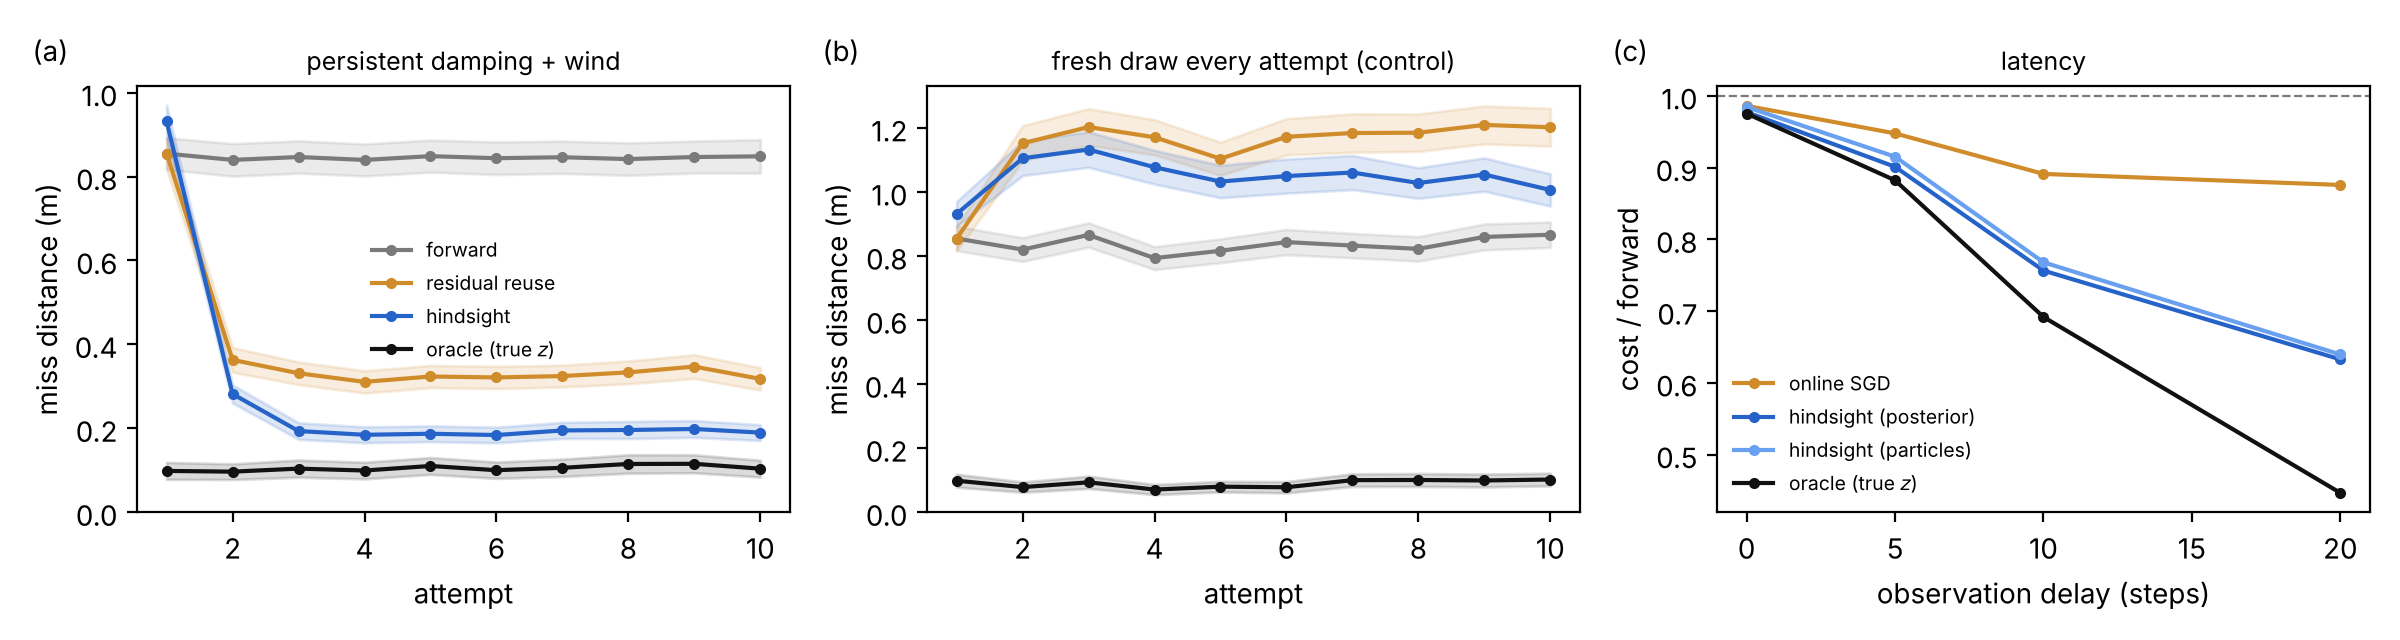
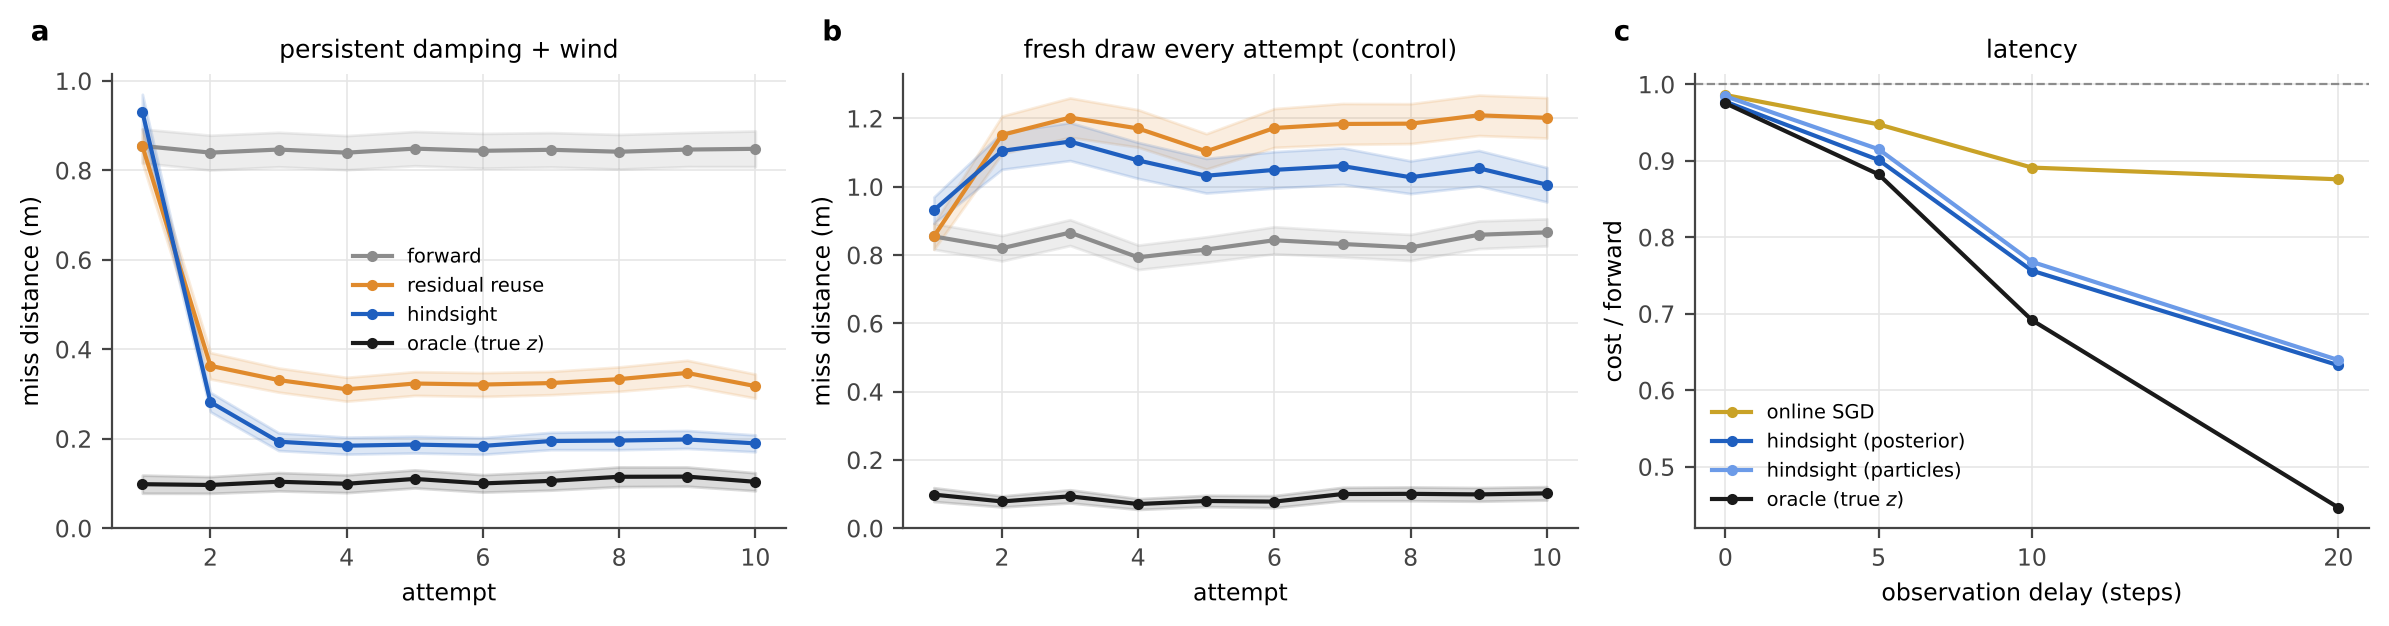
Shared figure style; v7 plotting script; restyled v6 figure
Claude-Session: https://claude.ai/code/session_017cFVViSvQxEhFKVry6NpjJ

diff --git a/scripts/plot_v7.py b/scripts/plot_v7.py
@@ -1,0 +1,110 @@
+"""Figures for the hierarchical-vs-hindsight experiment (E-H), from results/ only."""
+import sys
+from pathlib import Path
+
+import matplotlib.pyplot as plt
+import numpy as np
+from matplotlib.patches import Rectangle
+
+ROOT = Path(__file__).resolve().parents[1]
+sys.path.insert(0, str(ROOT))
+from scripts.figstyle import NAME, PCOL, panel, setup  # noqa: E402
+from wmi import hier  # noqa: E402
+from wmi.harness import load_results  # noqa: E402
+
+setup()
+G = ROOT / "papers" / "latent-hindsight-planning" / "generated"
+rng = np.random.default_rng(0)
+R = sorted(load_results("hier_main"), key=lambda r: r["provenance"]["config"]["seed"])
+hier.TASK["gap"] = R[0]["provenance"]["config"]["gap"]
+RG = R[0]["metrics"]["regimes"]
+cat = lambda key, p, f: np.concatenate([np.array(r["metrics"]["regimes"][key][p][f]) for r in R])
+PL = list(RG["K10/none"].keys())
+
+
+def ci(x, B=5000):
+    i = rng.integers(0, len(x), (B, len(x))); m = x[i].mean(1)
+    return x.mean(), np.quantile(m, .025), np.quantile(m, .975)
+
+
+def draw_map(ax):
+    for xw, yc in hier.WALLS:
+        g = hier.TASK["gap"] / 2
+        ax.add_patch(Rectangle((xw - hier.WALL_HALF, -hier.YLIM), 2 * hier.WALL_HALF, yc - g + hier.YLIM, color="#d9534f", alpha=.35, lw=0))
+        ax.add_patch(Rectangle((xw - hier.WALL_HALF, yc + g), 2 * hier.WALL_HALF, hier.YLIM - yc - g, color="#d9534f", alpha=.35, lw=0))
+    for y in (-hier.YLIM, hier.YLIM):
+        ax.axhline(y, color="#d9534f", alpha=.5, lw=1.2)
+    sg = hier.subgoals()
+    ax.scatter(sg[:-1, 0], sg[:-1, 1], s=10, marker="x", color="#555555", zorder=3, lw=.8)
+    ax.scatter(*hier.START, s=30, color="#2ca02c", zorder=4); ax.scatter(*hier.GOAL, s=60, marker="*", color="#2ca02c", zorder=4)
+    ax.set_xlim(-0.3, 4.4); ax.set_ylim(-1.35, 1.35); ax.set_aspect("equal"); ax.grid(False)
+    ax.set_xticks([]); ax.set_yticks([])
+
+
+# ---------- Figure 1 (teaser): trajectories + success bars
+fig = plt.figure(figsize=(11, 3.1)); gs = fig.add_gridspec(1, 3, width_ratios=[1.25, 1.25, 1.0], wspace=0.25)
+r0 = R[0]["metrics"]["regimes"]["K10/both"]
+for j, p in enumerate(("hier:forward", "hier:hindsight_posterior")):
+    ax = fig.add_subplot(gs[j]); draw_map(ax)
+    tr = np.array(r0[p]["traj"]); ok = np.array(r0[p]["success"])
+    for e in range(tr.shape[1]):
+        ax.plot(tr[:, e, 0], tr[:, e, 1], color=PCOL[p], alpha=.85, lw=1.1)
+        last = tr[~np.isnan(tr[:, e, 0]), e][-1]
+        ax.scatter(*last, marker="o" if ok[e] else "X", s=22 if ok[e] else 40, color=PCOL[p] if ok[e] else "#d9534f", zorder=5)
+    ax.set_title(f"{NAME[p]}: {ok[:tr.shape[1]].sum()}/{tr.shape[1]} reach the goal", fontsize=8.5)
+    panel(ax, "ab"[j])
+ax = fig.add_subplot(gs[2]); show = ["flat:forward", "hier:forward", "hier:hindsight_posterior", "hier:oracle_latent"]
+for i, p in enumerate(show):
+    m, lo, hi = ci(cat("K10/both", p, "success"))
+    ax.bar(i, m, color=PCOL[p], width=.7, yerr=[[m - lo], [hi - m]], capsize=2, ecolor="#333333", lw=0)
+    ax.text(i, m + .04, f"{m:.2f}", ha="center", fontsize=7.5)
+ax.set_xticks(range(len(show))); ax.set_xticklabels(["flat\nforward", "hier.\nforward", "hier.\n+ hindsight", "hier.\noracle $z$"], fontsize=7.5)
+ax.set_ylim(0, 1.1); ax.set_ylabel("main-goal success"); ax.set_title("persistent gain + wind", fontsize=8.5); panel(ax, "c")
+fig.savefig(G / "v7_teaser.png"); plt.close(fig)
+
+# ---------- Figure 2: success by regime for every planner
+regs = ["none", "wind", "both", "fresh"]
+fig, ax = plt.subplots(figsize=(11, 2.9)); w = 0.8 / len(PL)
+for j, p in enumerate(PL):
+    for i, reg in enumerate(regs):
+        m, lo, hi = ci(cat(f"K10/{reg}", p, "success"))
+        ax.bar(i + (j - (len(PL) - 1) / 2) * w, m, width=w * .92, color=PCOL[p], yerr=[[m - lo], [hi - m]], capsize=1.2,
+               ecolor="#333333", lw=0, label=NAME[p] if i == 0 else None, hatch="///" if p.startswith("flat") else None,
+               edgecolor="white")
+ax.set_xticks(range(len(regs))); ax.set_xticklabels(["no latent", "persistent wind", "persistent gain + wind", "fresh (redrawn every 1 s)"])
+ax.set_ylabel("main-goal success"); ax.set_ylim(0, 1.08); ax.legend(ncol=4, frameon=False, loc="upper center", bbox_to_anchor=(.5, 1.32))
+fig.savefig(G / "v7_success.png"); plt.close(fig)
+
+# ---------- Figure 3: where the main goal is lost (gate of first failure) + survival
+fig, ax = plt.subplots(1, 2, figsize=(9, 2.8))
+show = ["hier:forward", "hier:residual", "hier:online_sgd", "hier:hindsight_posterior", "hier:oracle_latent"]
+for j, p in enumerate(show):
+    fs = cat("K10/both", p, "fail_subgoal"); n = len(fs)
+    gate = np.where(fs >= 0, np.minimum(fs // 2, 2), -1)
+    frac = [np.mean(gate == g) for g in (0, 1, 2)]
+    ax[0].bar(np.arange(3) + (j - 2) * .16, frac, width=.15, color=PCOL[p], label=NAME[p], lw=0)
+ax[0].set_xticks(range(3)); ax[0].set_xticklabels(["gate 1", "gate 2", "gate 3"]); ax[0].set_ylabel("episodes failing here")
+ax[0].set_title("where the subgoal fails (persistent gain + wind)", fontsize=8.5); ax[0].legend(frameon=False, fontsize=6.5); panel(ax[0], "a")
+T = R[0]["provenance"]["config"]["T"]; tt = np.arange(T + 1) * 0.05
+for p in show:
+    fl, td = cat("K10/both", p, "fail"), cat("K10/both", p, "t_done")
+    alive = [(1 - (fl & (td < t / 0.05))).mean() for t in tt]
+    ax[1].plot(tt, alive, color=PCOL[p], lw=1.4, label=NAME[p])
+ax[1].set_xlabel("time (s)"); ax[1].set_ylabel("episodes without failure"); ax[1].set_ylim(0, 1.02)
+ax[1].set_title("survival of the main goal", fontsize=8.5); panel(ax[1], "b")
+fig.tight_layout(); fig.savefig(G / "v7_failures.png"); plt.close(fig)
+
+# ---------- Figure 4: commitment sweep
+KS = load_results("hier_ksweep")
+if KS:
+    fig, ax = plt.subplots(figsize=(4.2, 2.8)); Ks = [1, 5, 10, 20]
+    for p in ("hier:forward", "hier:hindsight_posterior", "hier:oracle_latent"):
+        ys = []
+        for K in Ks:
+            src = R if K == 10 else KS
+            ys.append(np.concatenate([np.array(r["metrics"]["regimes"][f"K{K}/both"][p]["success"]) for r in src]).mean())
+        ax.plot(Ks, ys, "-o", ms=3.5, color=PCOL[p], label=NAME[p], lw=1.4)
+    ax.set_xscale("log", base=2); ax.set_xticks(Ks); ax.set_xticklabels(Ks); ax.set_xlabel("open-loop chunk length $K$ (steps)")
+    ax.set_ylabel("main-goal success"); ax.set_ylim(0, 1.05); ax.legend(frameon=False)
+    fig.savefig(G / "v7_ksweep.png"); plt.close(fig)
+print("figures written")

diff --git a/scripts/plot_v6.py b/scripts/plot_v6.py
@@ -2,13 +2,14 @@
 import sys
 from pathlib import Path
 
-import matplotlib
-matplotlib.use("Agg")
 import matplotlib.pyplot as plt
 import numpy as np
 
 sys.path.insert(0, str(Path(__file__).resolve().parents[1]))
+from scripts.figstyle import COL, panel, setup  # noqa: E402
 from wmi.harness import load_results  # noqa: E402
+
+setup()
 
 G = Path(__file__).resolve().parents[1] / "papers" / "latent-hindsight-planning" / "generated"
 TH = load_results("throw")
@@ -20,10 +21,10 @@ for r in DL:
     for k, v in r["metrics"]["regimes"].items():
         for p, d in v.items():
             cost.setdefault(k, {}).setdefault(p, []).append(np.array(d["per_episode_cost"]))
-STY = {"forward": ("#7a7a7a", "forward"), "residual": ("#d08c2b", "residual reuse"), "hindsight": ("#2563c9", "hindsight"),
-       "oracle": ("#111111", "oracle (true $z$)"), "online_sgd": ("#d08c2b", "online SGD"),
-       "hindsight_posterior": ("#2563c9", "hindsight (posterior)"), "hindsight_latent_pf_adapt": ("#6aa0f0", "hindsight (particles)"),
-       "oracle_latent": ("#111111", "oracle (true $z$)")}
+STY = {"forward": (COL["forward"], "forward"), "residual": (COL["residual"], "residual reuse"), "hindsight": (COL["posterior"], "hindsight"),
+       "oracle": (COL["oracle"], "oracle (true $z$)"), "online_sgd": (COL["online_sgd"], "online SGD"),
+       "hindsight_posterior": (COL["posterior"], "hindsight (posterior)"), "hindsight_latent_pf_adapt": (COL["particles"], "hindsight (particles)"),
+       "oracle_latent": (COL["oracle"], "oracle (true $z$)")}
 fig, ax = plt.subplots(1, 3, figsize=(12, 3.2))
 for a, reg, title in ((ax[0], "both", "persistent damping + wind"), (ax[1], "fresh", "fresh draw every attempt (control)")):
     att = np.arange(1, miss[reg]["forward"].shape[0] + 1)
@@ -36,8 +37,8 @@ ds = [0, 5, 10, 20]
 for p in ("online_sgd", "hindsight_posterior", "hindsight_latent_pf_adapt", "oracle_latent"):
     y = [np.concatenate(cost[f"delay{d}/both"][p]).mean() / np.concatenate(cost[f"delay{d}/both"]["forward"]).mean() for d in ds]  # same statistic as tab_delay (ratio of means)
     c, lab = STY[p]; ax[2].plot(ds, y, "-o", ms=3, color=c, label=lab)
-ax[2].axhline(1, color="#7a7a7a", lw=.8, ls="--"); ax[2].set_xlabel("observation delay (steps)")
+ax[2].set_xticks(ds); ax[2].axhline(1, color=COL["forward"], lw=.8, ls="--"); ax[2].set_xlabel("observation delay (steps)")
 ax[2].set_ylabel("cost / forward"); ax[2].set_title("latency", fontsize=9); ax[2].legend(fontsize=7, frameon=False)
 for a, l in zip(ax, "abc"):
-    a.text(-0.16, 1.06, f"({l})", transform=a.transAxes, fontsize=10)
+    panel(a, l)
 fig.tight_layout(); fig.savefig(G / "v6_figure.png", dpi=200); print("wrote", G / "v6_figure.png")

diff --git a/scripts/figstyle.py b/scripts/figstyle.py
@@ -1,0 +1,28 @@
+"""Shared figure style for the hindsight-planning paper (clean, H-JEPA-like: light grid, no top/right spines,
+one fixed colour per method across every figure)."""
+import matplotlib
+
+matplotlib.use("Agg")
+import matplotlib.pyplot as plt  # noqa: E402
+
+COL = {"forward": "#8c8c8c", "residual": "#e08a2c", "online_sgd": "#c9a227", "posterior": "#1f5fbf",
+       "particles": "#6c9be8", "oracle": "#1a1a1a", "flat_forward": "#c7c7c7", "flat_hindsight": "#a9c4ef"}
+NAME = {"flat:forward": "flat, forward", "flat:hindsight_posterior": "flat, hindsight",
+        "hier:forward": "hierarchical, forward", "hier:residual": "hierarchical + residual reuse",
+        "hier:online_sgd": "hierarchical + online SGD", "hier:hindsight_posterior": "hierarchical + hindsight",
+        "hier:hindsight_latent_pf_adapt": "hierarchical + hindsight (particles)", "hier:oracle_latent": "hierarchical, oracle $z$"}
+PCOL = {"flat:forward": COL["flat_forward"], "flat:hindsight_posterior": COL["flat_hindsight"], "hier:forward": COL["forward"],
+        "hier:residual": COL["residual"], "hier:online_sgd": COL["online_sgd"], "hier:hindsight_posterior": COL["posterior"],
+        "hier:hindsight_latent_pf_adapt": COL["particles"], "hier:oracle_latent": COL["oracle"]}
+
+
+def setup():
+    plt.rcParams.update({"font.family": "DejaVu Sans", "font.size": 8.5, "axes.titlesize": 9, "axes.labelsize": 8.5,
+                         "legend.fontsize": 7.5, "axes.spines.top": False, "axes.spines.right": False,
+                         "axes.grid": True, "grid.color": "#e6e6e6", "grid.linewidth": 0.6, "axes.axisbelow": True,
+                         "axes.edgecolor": "#444444", "xtick.color": "#444444", "ytick.color": "#444444",
+                         "savefig.dpi": 220, "savefig.bbox": "tight"})
+
+
+def panel(ax, label):
+    ax.text(-0.12, 1.06, label, transform=ax.transAxes, fontsize=10, fontweight="bold", va="bottom")
